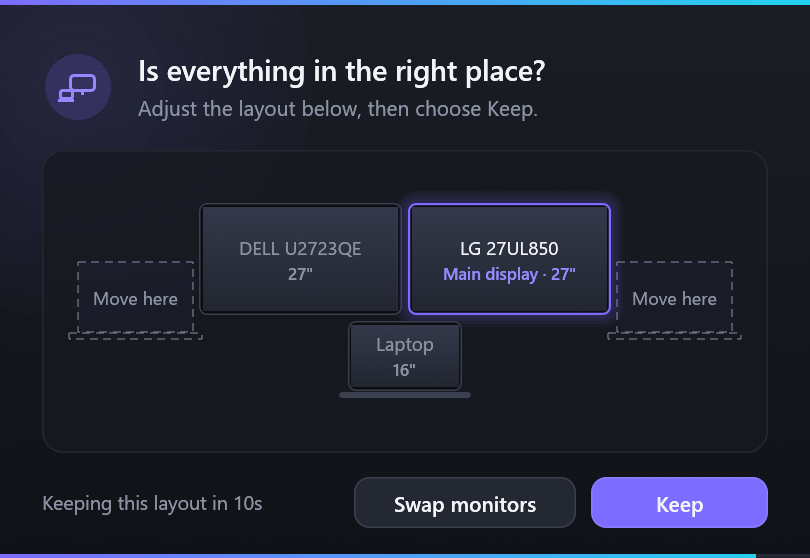
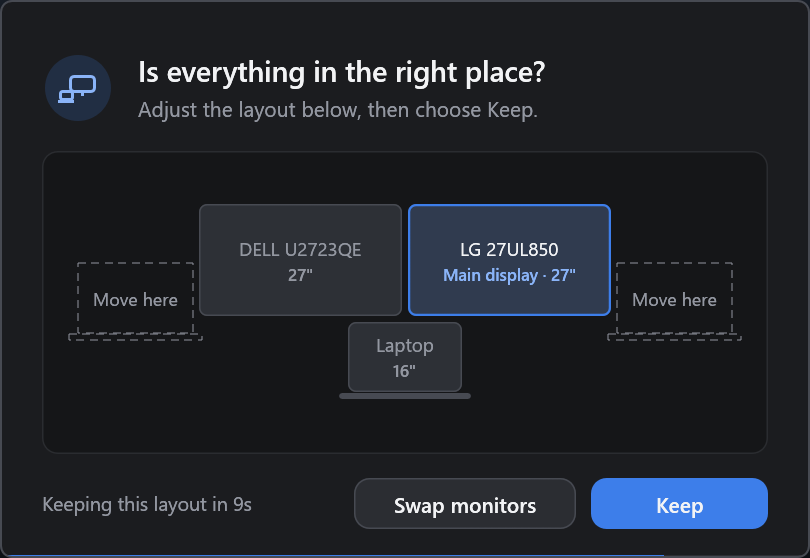
Flatten the card's look and stop vsync dividing its frame rate
The card opens a window on every monitor and each waited on its own vsync,
so it now paces its own frames. Gradients, glows and the see-through
window are replaced with flat colours and one accent. Version 0.2.2.

diff --git a/src/ui.rs b/src/ui.rs
@@ -14,8 +14,8 @@ use std::thread::{sleep, spawn};
 use std::time::{Duration, Instant};
 
 use eframe::egui::{
-    self, Align2, Color32, CornerRadius, CursorIcon, FontData, FontDefinitions, FontFamily, FontId, Id, Key, Mesh,
-    Painter, Pos2, Rect, Sense, Shape, Stroke, StrokeKind, Vec2, ViewportBuilder, ViewportCommand, ViewportId, pos2,
+    self, Align2, Color32, CornerRadius, CursorIcon, FontData, FontDefinitions, FontFamily, FontId, Id, Key, Painter,
+    Pos2, Rect, Sense, Shape, Stroke, StrokeKind, Vec2, ViewportBuilder, ViewportCommand, ViewportId, pos2,
     vec2,
 };
 use windows_sys::Win32::Foundation::{ERROR_ALREADY_EXISTS, GetLastError, HWND, LPARAM, RECT};
@@ -38,26 +38,25 @@ const DONE_FOR: Duration = Duration::from_millis(2800);
 const FAILED_FOR: Duration = Duration::from_secs(10);
 const FADE_IN: f32 = 0.22;
 const FADE_OUT: f32 = 0.25;
-/// The card is slightly see-through (whole-window opacity, out of 255).
-const OPACITY: f32 = 236.0;
+/// Time between frames. The card paces itself rather than waiting on vsync: with a window on every
+/// monitor, each window's vsync wait would add up and divide the frame rate by the monitor count.
+const FRAME: Duration = Duration::from_millis(8);
 
-const BG_TOP: Color32 = Color32::from_rgb(0x1b, 0x1d, 0x26);
-const BG_BOTTOM: Color32 = Color32::from_rgb(0x11, 0x12, 0x17);
-const SURFACE: Color32 = Color32::from_rgb(0x17, 0x19, 0x20);
-const SURFACE_EDGE: Color32 = Color32::from_rgb(0x25, 0x28, 0x32);
-const BEZEL: Color32 = Color32::from_rgb(0x0c, 0x0d, 0x11);
-const PANEL_TOP: Color32 = Color32::from_rgb(0x34, 0x39, 0x4a);
-const PANEL_BOTTOM: Color32 = Color32::from_rgb(0x22, 0x26, 0x31);
-const SCREEN_EDGE: Color32 = Color32::from_rgb(0x3a, 0x40, 0x4e);
-const BUTTON: Color32 = Color32::from_rgb(0x24, 0x28, 0x32);
-const BUTTON_HOVER: Color32 = Color32::from_rgb(0x2f, 0x34, 0x41);
-const TEXT: Color32 = Color32::from_rgb(0xf2, 0xf4, 0xf8);
-const MUTED: Color32 = Color32::from_rgb(0x8b, 0x93, 0xa3);
-const ACCENT: Color32 = Color32::from_rgb(0x7c, 0x6c, 0xff);
-const ACCENT_HOVER: Color32 = Color32::from_rgb(0x96, 0x89, 0xff);
-const ACCENT_2: Color32 = Color32::from_rgb(0x22, 0xd3, 0xee);
-const GOOD: Color32 = Color32::from_rgb(0x34, 0xd3, 0x99);
-const BAD: Color32 = Color32::from_rgb(0xf8, 0x71, 0x71);
+const BG: Color32 = Color32::from_rgb(0x1b, 0x1c, 0x1f);
+const SURFACE: Color32 = Color32::from_rgb(0x15, 0x16, 0x18);
+const SURFACE_EDGE: Color32 = Color32::from_rgb(0x2a, 0x2c, 0x30);
+const SCREEN: Color32 = Color32::from_rgb(0x2d, 0x30, 0x36);
+const SCREEN_EDGE: Color32 = Color32::from_rgb(0x47, 0x4a, 0x52);
+const BUTTON: Color32 = Color32::from_rgb(0x2b, 0x2d, 0x32);
+const BUTTON_HOVER: Color32 = Color32::from_rgb(0x36, 0x39, 0x40);
+const TEXT: Color32 = Color32::from_rgb(0xf2, 0xf3, 0xf5);
+const MUTED: Color32 = Color32::from_rgb(0x93, 0x97, 0xa1);
+const ACCENT: Color32 = Color32::from_rgb(0x3d, 0x7e, 0xea);
+const ACCENT_HOVER: Color32 = Color32::from_rgb(0x5a, 0x94, 0xf0);
+/// The accent, lightened to read as text on the dark card.
+const ACCENT_TEXT: Color32 = Color32::from_rgb(0x8a, 0xb4, 0xf8);
+const GOOD: Color32 = Color32::from_rgb(0x4c, 0xc3, 0x8a);
+const BAD: Color32 = Color32::from_rgb(0xf0, 0x6a, 0x6a);
 
 #[derive(Clone, PartialEq)]
 enum Phase {
@@ -220,7 +219,10 @@ fn show(
         screens,
     }));
     let started = Arc::new(AtomicBool::new(false));
-    let options = eframe::NativeOptions { viewport: card_viewport("auto-display").with_app_id("auto-display"), ..Default::default() };
+    let options = eframe::NativeOptions { viewport: card_viewport("auto-display").with_app_id("auto-display"),
+        glow_options: egui_glow_config(),
+        ..Default::default()
+    };
     let (app_state, app_started) = (state.clone(), started.clone());
     let result = eframe::run_native(
         "auto-display",
@@ -237,6 +239,12 @@ fn show(
         log::line(&format!("Could not show the setup card: {e}"));
     }
     Ok(started.load(Ordering::SeqCst))
+}
+
+fn egui_glow_config() -> eframe::egui_glow::GlowConfiguration {
+    let mut config = eframe::egui_glow::GlowConfiguration::default();
+    config.vsync = false;
+    config
 }
 
 fn card_viewport(title: &str) -> ViewportBuilder {
@@ -386,7 +394,7 @@ impl Card {
 
 impl eframe::App for Card {
     fn clear_color(&self, _visuals: &egui::Visuals) -> [f32; 4] {
-        BG_BOTTOM.to_normalized_gamma_f32()
+        BG.to_normalized_gamma_f32()
     }
 
     /// Window management lives here because `ui` does not run while the window is hidden.
@@ -396,7 +404,7 @@ impl eframe::App for Card {
         self.monitors = monitors();
         let fade_in = self.shown.map_or(0.0, |t| (now - t).as_secs_f32() / FADE_IN).clamp(0.0, 1.0);
         let fade_out = self.closing.map_or(1.0, |t| 1.0 - (now - t).as_secs_f32() / FADE_OUT).clamp(0.0, 1.0);
-        self.alpha = (ease_out(fade_in) * fade_out * OPACITY).round() as u8;
+        self.alpha = (ease_out(fade_in) * fade_out * 255.0).round() as u8;
 
         self.manage(ctx, ViewportId::ROOT, hwnd(frame), 0);
         if self.windows.get(&ViewportId::ROOT).is_none_or(|w| w.hwnd.is_none()) {
@@ -418,7 +426,7 @@ impl eframe::App for Card {
             Phase::Prompt if since.elapsed() >= KEEP_AFTER && self.closing.is_none() => self.act(Action::Keep, ctx),
             _ => {}
         }
-        ctx.request_repaint_after(Duration::from_millis(16));
+        ctx.request_repaint_after(FRAME);
     }
 
     fn ui(&mut self, ui: &mut egui::Ui, _frame: &mut eframe::Frame) {
@@ -482,33 +490,7 @@ fn draw(ui: &mut egui::Ui, phase: &Phase, since: Instant, screens: &[Screen]) ->
     let t = ui.input(|i| i.time) as f32;
     let choices = (*phase == Phase::Prompt).then(|| choices(screens));
 
-    // Background: a soft vertical gradient with a faint glow behind the icon.
-    vgradient(&painter, rect, BG_TOP, BG_BOTTOM);
-    let glow_colour = match phase {
-        Phase::Done(_) => GOOD,
-        Phase::Failed(_) => BAD,
-        _ => ACCENT,
-    };
-    for i in 0..10 {
-        painter.circle_filled(rect.min + vec2(PAD + 24.0, 58.0), 30.0 + i as f32 * 14.0, glow_colour.gamma_multiply(0.012));
-    }
-
-    // Accent bar along the top edge.
-    let bar = Rect::from_min_size(rect.min, vec2(rect.width(), 3.0));
-    match phase {
-        Phase::Working(_) => {
-            gradient(&painter, bar, &[(0.0, ACCENT.gamma_multiply(0.35)), (1.0, ACCENT_2.gamma_multiply(0.35))]);
-            let p = (t * 0.55).fract() * 1.6 - 0.3;
-            let clipped = painter.with_clip_rect(bar);
-            gradient(&clipped, bar, &[(p - 0.25, Color32::TRANSPARENT), (p, ACCENT_2), (p + 0.25, Color32::TRANSPARENT)]);
-        }
-        Phase::Prompt => gradient(&painter, bar, &[(0.0, ACCENT), (1.0, ACCENT_2)]),
-        Phase::Done(_) => gradient(&painter, bar, &[(0.0, GOOD), (1.0, ACCENT_2)]),
-        Phase::Failed(_) => {
-            painter.rect_filled(bar, CornerRadius::ZERO, BAD);
-        }
-    }
-
+    painter.rect_filled(rect, CornerRadius::ZERO, BG);
     draw_icon(&painter, rect.min + vec2(PAD + 24.0, 58.0), phase, since, t);
 
     // Title and subtitle.
@@ -528,8 +510,8 @@ fn draw(ui: &mut egui::Ui, phase: &Phase, since: Instant, screens: &[Screen]) ->
 
     // Diagram of the screens, drawn to physical scale.
     let area = Rect::from_min_max(pos2(rect.left() + PAD, rect.top() + 100.0), pos2(rect.right() - PAD, rect.bottom() - 70.0));
-    painter.rect_filled(area, CornerRadius::same(14), SURFACE.gamma_multiply(0.85));
-    painter.rect_stroke(area, CornerRadius::same(14), Stroke::new(1.0, SURFACE_EDGE), StrokeKind::Inside);
+    painter.rect_filled(area, CornerRadius::same(10), SURFACE);
+    painter.rect_stroke(area, CornerRadius::same(10), Stroke::new(1.0, SURFACE_EDGE), StrokeKind::Inside);
     let ghosts = choices.as_ref().map_or(&[][..], |c| &c.ghosts[..]);
     let mut action = draw_screens(ui, &painter, area.shrink2(vec2(22.0, 18.0)), screens, ghosts).map(Action::MoveLaptop);
 
@@ -558,7 +540,7 @@ fn draw(ui: &mut egui::Ui, phase: &Phase, since: Instant, screens: &[Screen]) ->
             let track = Rect::from_min_max(pos2(rect.left(), rect.bottom() - 3.0), rect.max);
             painter.rect_filled(track, CornerRadius::ZERO, BUTTON);
             let fill = Rect::from_min_size(track.min, vec2(track.width() * left / KEEP_AFTER.as_secs_f32(), track.height()));
-            gradient(&painter.with_clip_rect(fill), track, &[(0.0, ACCENT), (1.0, ACCENT_2)]);
+            painter.rect_filled(fill, CornerRadius::ZERO, ACCENT);
             ui.input(|i| {
                 if i.key_pressed(Key::Enter) || i.key_pressed(Key::Escape) {
                     action = Some(Action::Keep);
@@ -586,7 +568,6 @@ fn draw_icon(painter: &Painter, c: Pos2, phase: &Phase, since: Instant, t: f32) 
     let r = 20.0;
     match phase {
         Phase::Working(_) => {
-            painter.circle_filled(c, r + 2.0, ACCENT.gamma_multiply(0.10));
             painter.circle_stroke(c, r, Stroke::new(3.0, BUTTON));
             let start = t * 4.2;
             let sweep = 1.6 + 0.9 * (t * 2.1).sin();
@@ -601,7 +582,7 @@ fn draw_icon(painter: &Painter, c: Pos2, phase: &Phase, since: Instant, t: f32) 
         Phase::Prompt => {
             painter.circle_filled(c, r + 2.0, ACCENT.gamma_multiply(0.18));
             // A small screen with a laptop beside it.
-            let s = Stroke::new(2.0, ACCENT_HOVER);
+            let s = Stroke::new(2.0, ACCENT_TEXT);
             let screen = Rect::from_center_size(c + vec2(3.0, -3.0), vec2(16.0, 10.0));
             painter.rect_stroke(screen, CornerRadius::same(2), s, StrokeKind::Middle);
             painter.line_segment([c + vec2(3.0, 2.0), c + vec2(3.0, 5.0)], s);
@@ -737,16 +718,10 @@ fn draw_screens(ui: &egui::Ui, painter: &Painter, area: Rect, screens: &[Screen]
 
 fn draw_screen(painter: &Painter, s: &Screen, r: Rect) {
     let radius = CornerRadius::same(5);
+    painter.rect_filled(r, radius, SCREEN);
     if s.primary {
-        // A soft glow around the main display.
-        for i in 1..=4 {
-            let grow = i as f32 * 2.0;
-            painter.rect_filled(r.expand(grow), CornerRadius::same(5 + i * 2), ACCENT.gamma_multiply(0.05));
-        }
+        painter.rect_filled(r, radius, ACCENT.gamma_multiply(0.14));
     }
-    painter.rect_filled(r, radius, BEZEL);
-    let panel = r.shrink(2.5);
-    vgradient(&painter.with_clip_rect(panel), panel, PANEL_TOP, PANEL_BOTTOM);
     let edge = if s.primary { Stroke::new(1.5, ACCENT) } else { Stroke::new(1.0, SCREEN_EDGE) };
     painter.rect_stroke(r, radius, edge, StrokeKind::Inside);
     if s.internal {
@@ -759,8 +734,8 @@ fn draw_screen(painter: &Painter, s: &Screen, r: Rect) {
     let name = label(painter, &s.name, &name_font, r.width() - 12.0);
     let inches = s.mm.map(|(w, h)| (w * w + h * h).sqrt() / 25.4).filter(|d| *d > 5.0 && !s.name.contains(" + "));
     let detail = match (s.primary, inches) {
-        (true, Some(d)) => Some((format!("Main display · {d:.0}\""), ACCENT_HOVER)),
-        (true, None) => Some(("Main display".to_string(), ACCENT_HOVER)),
+        (true, Some(d)) => Some((format!("Main display · {d:.0}\""), ACCENT_TEXT)),
+        (true, None) => Some(("Main display".to_string(), ACCENT_TEXT)),
         (false, Some(d)) => Some((format!("{d:.0}\""), MUTED)),
         (false, None) => None,
     };
@@ -778,8 +753,10 @@ fn draw_screen(painter: &Painter, s: &Screen, r: Rect) {
 }
 
 fn draw_ghost(painter: &Painter, r: Rect, hovered: bool) {
-    let colour = if hovered { ACCENT_HOVER } else { MUTED.gamma_multiply(0.55) };
-    painter.rect_filled(r, CornerRadius::same(5), ACCENT.gamma_multiply(if hovered { 0.16 } else { 0.04 }));
+    let colour = if hovered { ACCENT_TEXT } else { MUTED.gamma_multiply(0.55) };
+    if hovered {
+        painter.rect_filled(r, CornerRadius::same(5), ACCENT.gamma_multiply(0.16));
+    }
     let dashed = |rect: Rect| {
         let pts = [rect.left_top(), rect.right_top(), rect.right_bottom(), rect.left_bottom(), rect.left_top()];
         painter.extend(Shape::dashed_line(&pts, Stroke::new(1.2, colour), 5.0, 4.0));
@@ -800,41 +777,12 @@ fn button(ui: &egui::Ui, painter: &Painter, rect: Rect, id: &str, label: &str, p
     let radius = CornerRadius::same(10);
     if primary {
         painter.rect_filled(rect, radius, if hovered { ACCENT_HOVER } else { ACCENT });
-        painter.rect_stroke(rect, radius, Stroke::new(1.0, ACCENT_HOVER.gamma_multiply(0.6)), StrokeKind::Inside);
     } else {
         painter.rect_filled(rect, radius, if hovered { BUTTON_HOVER } else { BUTTON });
         painter.rect_stroke(rect, radius, Stroke::new(1.0, SCREEN_EDGE), StrokeKind::Inside);
     }
     painter.text(rect.center(), Align2::CENTER_CENTER, label, semibold(14.0), TEXT);
     response.clicked()
-}
-
-/// A horizontal gradient through `stops` (position 0..1 across `rect`, colour).
-fn gradient(painter: &Painter, rect: Rect, stops: &[(f32, Color32)]) {
-    let mut mesh = Mesh::default();
-    for (i, &(at, color)) in stops.iter().enumerate() {
-        let x = rect.left() + rect.width() * at;
-        mesh.colored_vertex(pos2(x, rect.top()), color);
-        mesh.colored_vertex(pos2(x, rect.bottom()), color);
-        if i > 0 {
-            let b = i as u32 * 2;
-            mesh.add_triangle(b - 2, b - 1, b);
-            mesh.add_triangle(b - 1, b, b + 1);
-        }
-    }
-    painter.add(Shape::mesh(mesh));
-}
-
-/// A vertical gradient from `top` to `bottom` filling `rect`.
-fn vgradient(painter: &Painter, rect: Rect, top: Color32, bottom: Color32) {
-    let mut mesh = Mesh::default();
-    mesh.colored_vertex(rect.left_top(), top);
-    mesh.colored_vertex(rect.right_top(), top);
-    mesh.colored_vertex(rect.left_bottom(), bottom);
-    mesh.colored_vertex(rect.right_bottom(), bottom);
-    mesh.add_triangle(0, 1, 2);
-    mesh.add_triangle(1, 2, 3);
-    painter.add(Shape::mesh(mesh));
 }
 
 /// A screen's name if it fits, else just the brand ("DELL"), else as much of the name as fits.
@@ -891,7 +839,7 @@ fn style_window(h: isize) {
     const DWMWCP_ROUND: u32 = 2;
     let colorref = |c: Color32| u32::from_le_bytes([c.r(), c.g(), c.b(), 0]);
     let border = colorref(SCREEN_EDGE);
-    let caption = colorref(BG_TOP);
+    let caption = colorref(BG);
     unsafe {
         DwmSetWindowAttribute(h, DWMWA_WINDOW_CORNER_PREFERENCE, (&DWMWCP_ROUND as *const u32).cast(), 4);
         DwmSetWindowAttribute(h, DWMWA_BORDER_COLOR, (&border as *const u32).cast(), 4);
@@ -1021,7 +969,7 @@ mod tests {
 
     fn screen_rects(output: &egui::FullOutput) -> Vec<Rect> {
         output.shapes.iter().filter_map(|s| match &s.shape {
-            Shape::Rect(r) if r.fill == BEZEL => Some(r.rect),
+            Shape::Rect(r) if r.fill == SCREEN => Some(r.rect),
             _ => None,
         }).collect()
     }
